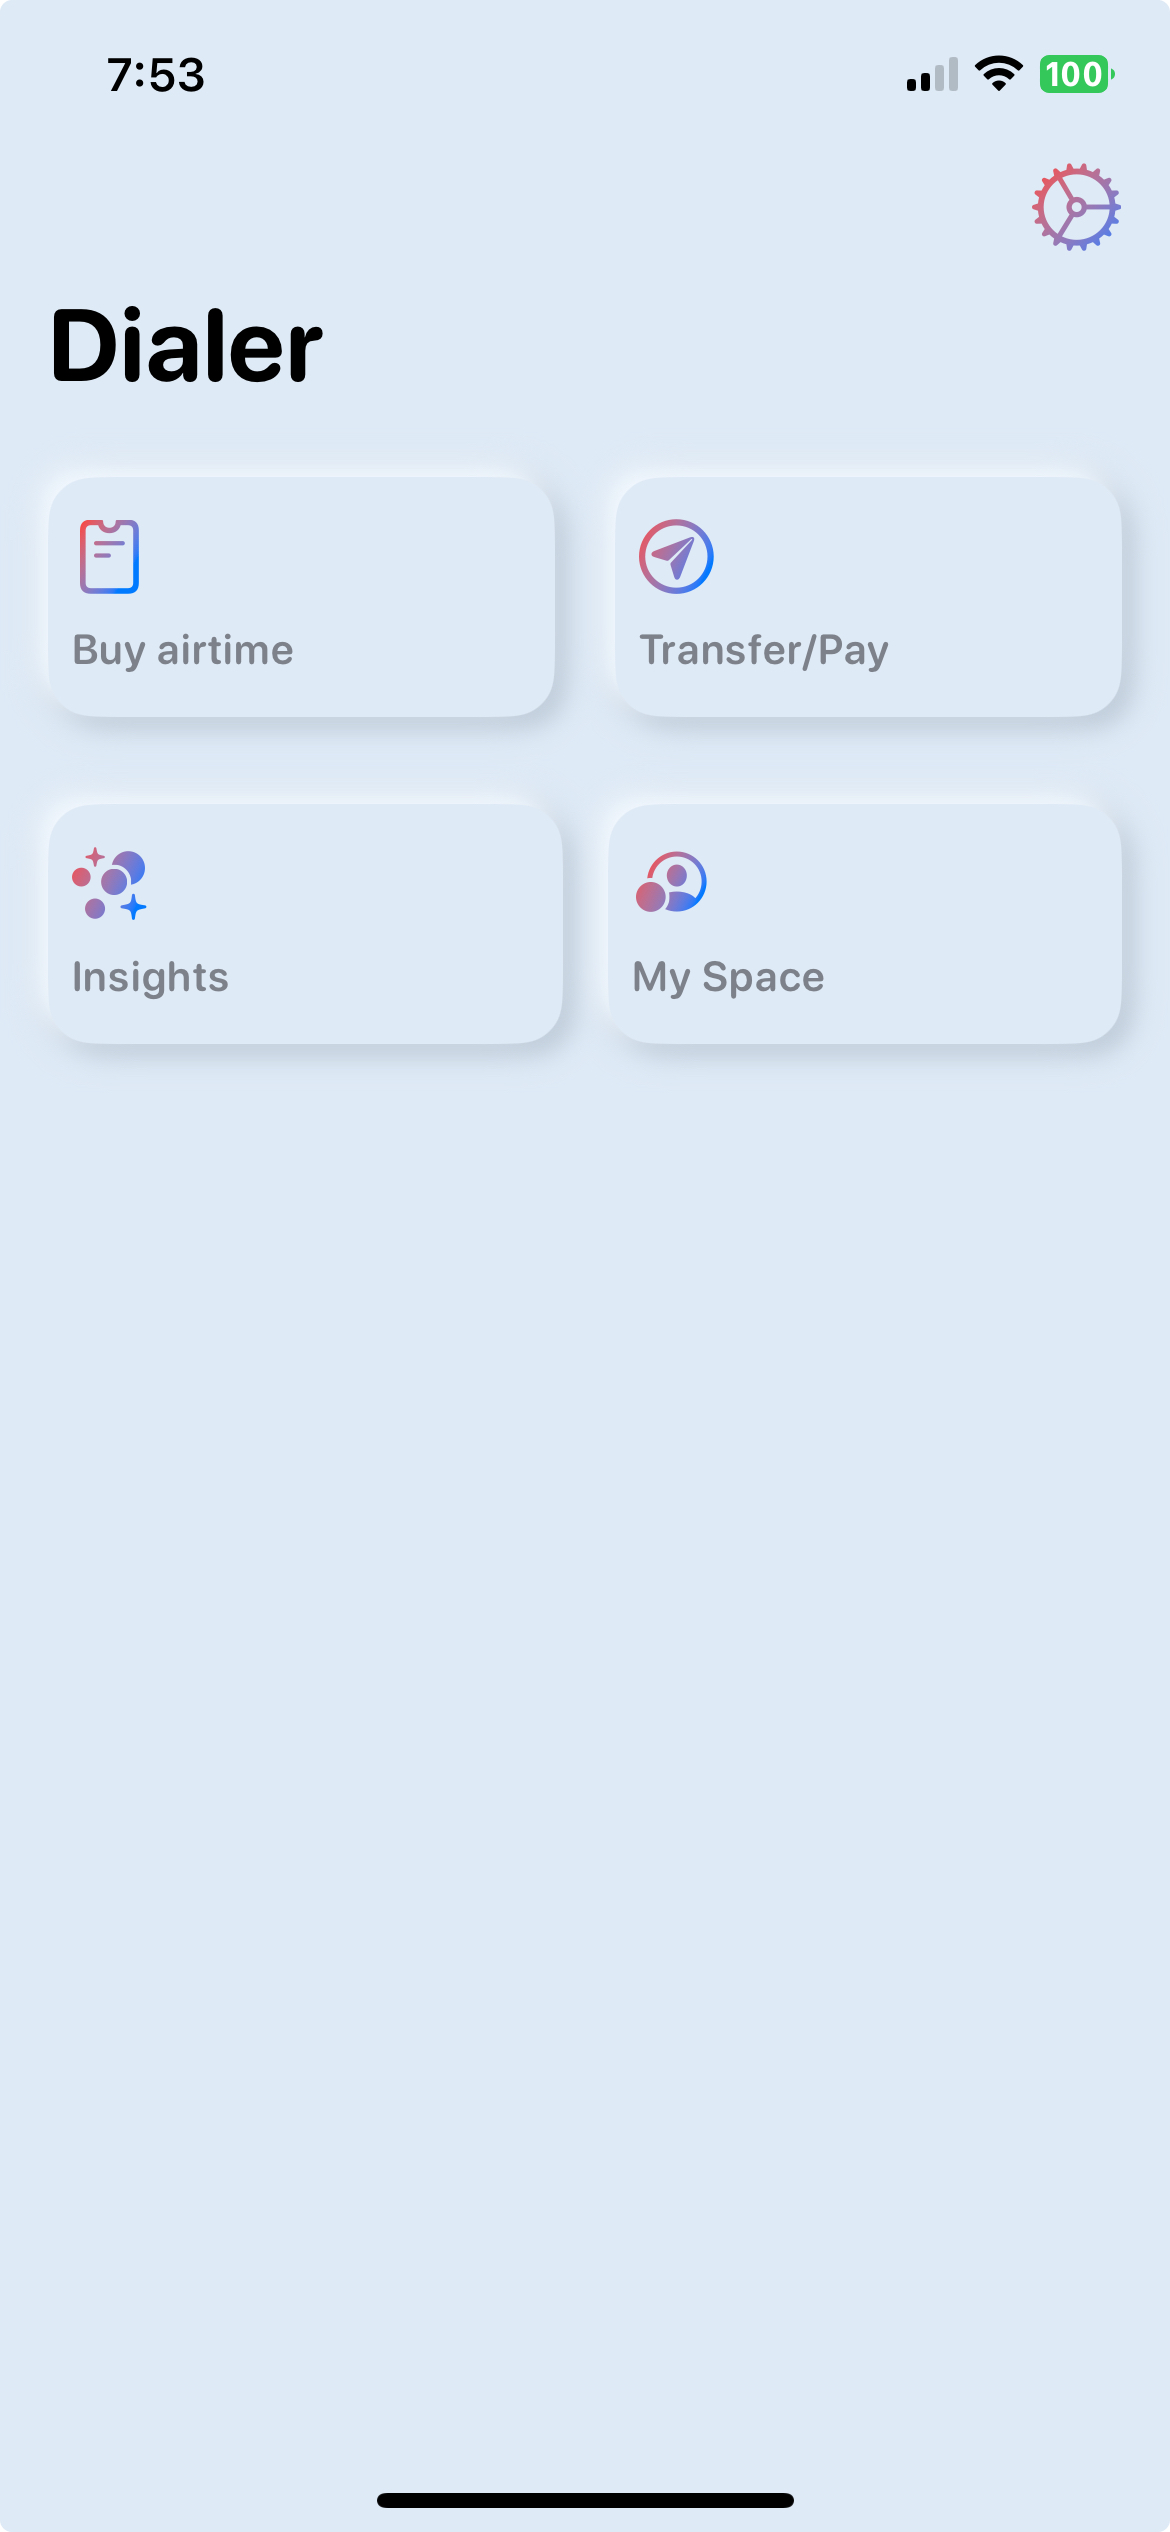
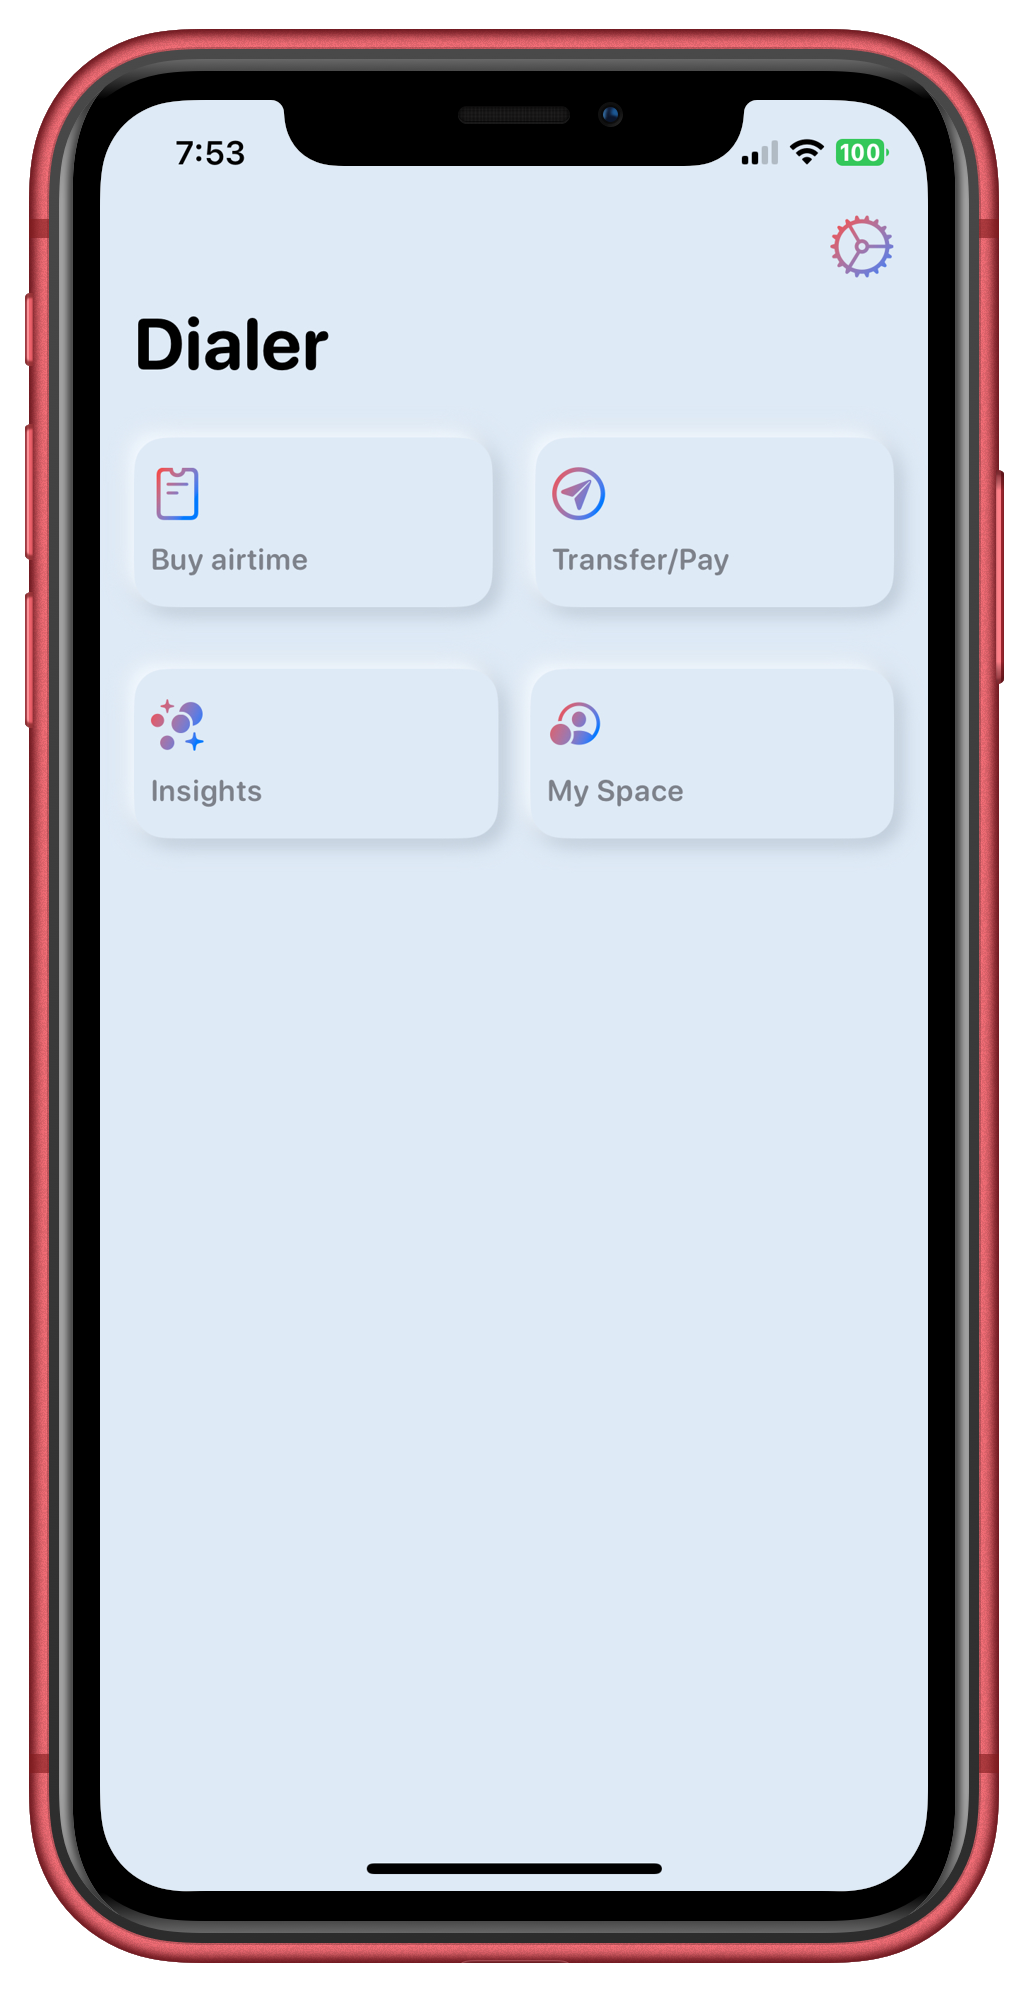
Improve imageS

diff --git a/Styles/dialit.css b/Styles/dialit.css
@@ -34,7 +34,7 @@
 #features {
 	display: grid;
 	align-items: center;
-	grid-template-columns: repeat(auto-fit, minmax(200px, 2fr));
+	grid-template-columns: repeat(auto-fit, minmax(180px, 2fr));
 	margin: 40px auto;
 }
 
